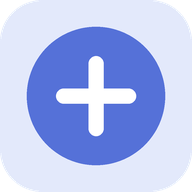
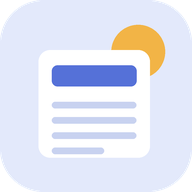
アイコンを「朝の新聞」デザインに変更
- 192/512/Android用(安全領域内に縮小)/iPhone用(不透明の正方形)/ファビコンを作り直し
- 画面左上のマークも同じデザインに
- Service Workerのキャッシュ版を更新して新しいアイコンを配信

Claude-Session: https://claude.ai/code/session_01SDyvZD9qSwM9pmbmATD46e

diff --git a/index.html b/index.html
@@ -229,7 +229,7 @@ footer{padding:10px 18px 40px;color:var(--ink-soft);font-size:12.5px;text-align:
   <header class="hello">
     <div class="hello-top">
       <p class="brand">
-        <svg width="22" height="22" viewBox="0 0 24 24" aria-hidden="true"><circle cx="12" cy="12" r="10" fill="var(--blue-soft)"/><path d="M7 12h10M12 7v10" stroke="var(--blue)" stroke-width="2.4" stroke-linecap="round"/></svg>
+        <svg width="22" height="22" viewBox="0 0 24 24" aria-hidden="true"><rect width="24" height="24" rx="5.4" fill="var(--blue-soft)"/><circle cx="17.3" cy="6.6" r="3.4" fill="#f2b446"/><rect x="4.8" y="6.2" width="13.9" height="13.5" rx="1.5" fill="#fff"/><rect x="6.5" y="8.1" width="10.5" height="2.6" rx=".7" fill="var(--blue)"/><rect x="6.5" y="12.6" width="10.5" height=".9" rx=".45" fill="#c8d2f0"/><rect x="6.5" y="14.6" width="10.5" height=".9" rx=".45" fill="#c8d2f0"/><rect x="6.5" y="16.6" width="6.5" height=".9" rx=".45" fill="#c8d2f0"/></svg>
         <span class="bn">診療放射線技師ニュース</span><span class="bs" style="display:none">技師ニュース</span>
       </p>
       <div class="hello-tools">

diff --git a/sw.js b/sw.js
@@ -1,5 +1,5 @@
 // 診療放射線技師ニュース: オフラインでも前回の内容を表示するためのキャッシュ
-const VERSION = 'rtn-v2';
+const VERSION = 'rtn-v3';
 const SHELL = ['./', 'index.html', 'manifest.webmanifest', 'icon-192.png', 'icon-512.png', 'apple-touch-icon.png', 'favicon-32.png'];
 
 self.addEventListener('install', e => {
